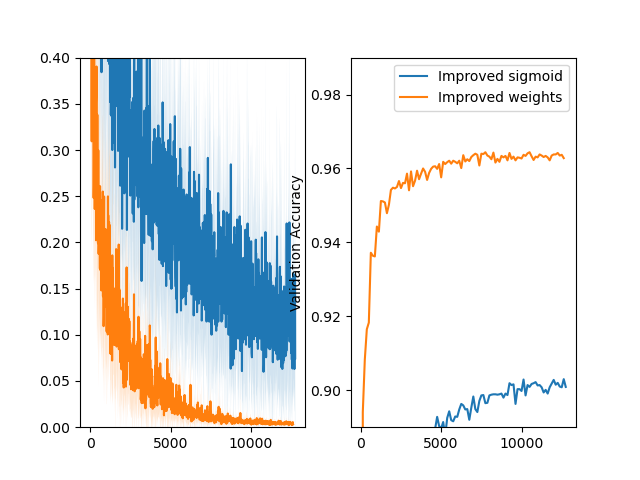
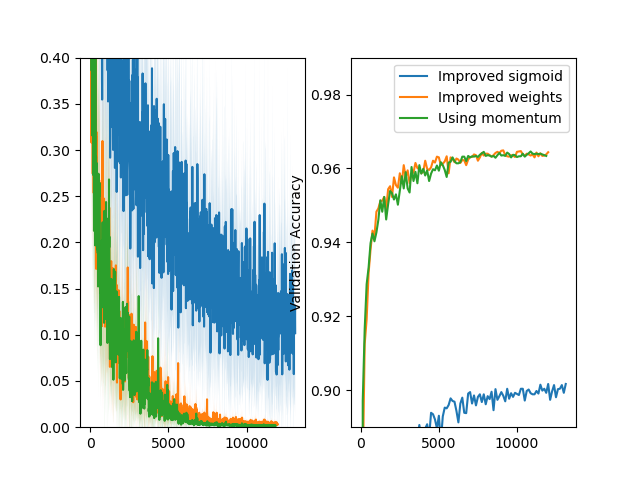
added a bunch of new spicy stuff

diff --git a/assignment2/task3.py b/assignment2/task3.py
@@ -27,6 +27,7 @@ if __name__ == "__main__":
     Y_train = one_hot_encode(Y_train, 10)
     Y_val = one_hot_encode(Y_val, 10)
 
+    '''
     model = SoftmaxModel(
         neurons_per_layer,
         use_improved_sigmoid,
@@ -37,10 +38,12 @@ if __name__ == "__main__":
         X_train, Y_train, X_val, Y_val,
     )
     train_history, val_history = trainer.train(num_epochs)
-
+    '''
     # Example created in assignment text - Comparing with and without shuffling.
     # YOU CAN DELETE EVERYTHING BELOW!
-    
+
+    #Task 3 below
+    '''
     use_improved_weight_init = True
     model_no_shuffle = SoftmaxModel(
         neurons_per_layer,
@@ -55,20 +58,121 @@ if __name__ == "__main__":
         num_epochs)
     shuffle_data = True
 
+
+    
+    use_momentum = True
+    learning_rate_momentum = 0.02
+    model_no_shuffle = SoftmaxModel(
+        neurons_per_layer,
+        use_improved_sigmoid,
+        use_improved_weight_init)
+    trainer_shuffle = SoftmaxTrainer(
+        momentum_gamma, use_momentum,
+        model_no_shuffle, learning_rate_momentum, batch_size, shuffle_data,
+        X_train, Y_train, X_val, Y_val,
+    )
+    train_history_final, val_history_final= trainer_shuffle.train(
+        num_epochs)
+
     plt.subplot(1, 2, 1)
     utils.plot_loss(train_history["loss"],
                     "Improved sigmoid", npoints_to_average=10)
     utils.plot_loss(
         train_history_weights["loss"], "Improved weights", npoints_to_average=10)
+    utils.plot_loss(
+        train_history_final["loss"], "Using momentum", npoints_to_average=10)
+    plt.ylabel("Validation Loss")
     plt.ylim([0, .4]) 
+    plt.legend()
     plt.subplot(1, 2, 2)
     plt.ylim([0.89, .99])
-    utils.plot_loss(val_history["accuracy"], "Improved sigmoid")
+    utils.plot_loss(
+        val_history["accuracy"], "Improved sigmoid")
     utils.plot_loss(
         val_history_weights["accuracy"], "Improved weights")
+    
+    utils.plot_loss(
+        val_history_final["accuracy"], "Using momentum")
     plt.ylabel("Validation Accuracy")
     plt.legend()
     plt.savefig("task3_2.png")
     plt.show()
+    '''
+
+ 
+    ######################
+    #Task 4 below        #
+    ######################
+    #Model from task 3
+    use_improved_sigmoid = True
+    use_improved_weight_init = True
+    use_momentum = True
+
+
+
+    learning_rate_momentum = 0.02
+    neurons_per_layer = [32,10]
+    model_32 = SoftmaxModel(
+        neurons_per_layer,
+        use_improved_sigmoid,
+        use_improved_weight_init)
+    trainer_shuffle = SoftmaxTrainer(
+        momentum_gamma, use_momentum,
+        model_32, learning_rate_momentum, batch_size, shuffle_data,
+        X_train, Y_train, X_val, Y_val,
+    )
+    train_history_32, val_history_32= trainer_shuffle.train(
+        num_epochs)
+        
+
+    neurons_per_layer = [128,10]
+    model_128 = SoftmaxModel(
+        neurons_per_layer,
+        use_improved_sigmoid,
+        use_improved_weight_init)
+    trainer_shuffle = SoftmaxTrainer(
+        momentum_gamma, use_momentum,
+        model_128, learning_rate_momentum, batch_size, shuffle_data,
+        X_train, Y_train, X_val, Y_val,
+    )
+    train_history_128, val_history_128= trainer_shuffle.train(
+        num_epochs)
+
     
+    neurons_per_layer = [64,10]
+    model_64 = SoftmaxModel(
+        neurons_per_layer,
+        use_improved_sigmoid,
+        use_improved_weight_init)
+    trainer_shuffle = SoftmaxTrainer(
+        momentum_gamma, use_momentum,
+        model_64, learning_rate_momentum, batch_size, shuffle_data,
+        X_train, Y_train, X_val, Y_val,
+    )
+    train_history_64, val_history_64= trainer_shuffle.train(
+        num_epochs)
     
+    plt.subplot(1, 2, 1)
+    plt.ylim([0.00, 0.4])
+    utils.plot_loss(
+        train_history_32["loss"], "32 hidden units", npoints_to_average=10)
+    utils.plot_loss(
+        train_history_128["loss"], "128 hidden units", npoints_to_average=10)
+    utils.plot_loss(
+        train_history_64["loss"], "64 hidden units", npoints_to_average=10)
+    plt.ylabel("Training Loss")
+    
+    plt.legend()
+
+    plt.subplot(1, 2, 2)
+    plt.ylim([0.89, .99])
+    utils.plot_loss(
+        val_history_128["accuracy"], "32 hidden units")
+    utils.plot_loss(
+        val_history_64["accuracy"], "64 hidden units")
+    utils.plot_loss(
+        val_history_32["accuracy"], "128 hidden units")
+    plt.ylabel("Validation Accuracy")
+    plt.legend()
+    plt.savefig("task4_1_2.png")
+    plt.show()
